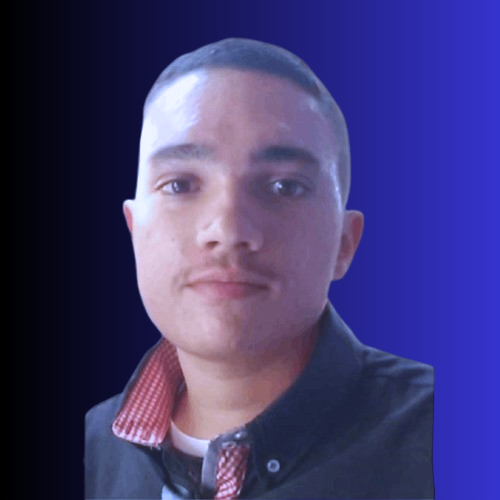
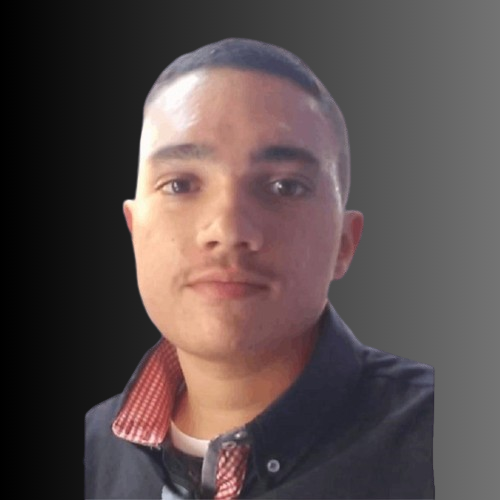
Modifications images, photo and texts

diff --git a/index.html b/index.html
@@ -58,8 +58,10 @@
     </div>
 
     <footer>
-      Feito com ♥ pela <a href="https://rocketseat.com.br" target="_blank"> Rocketseat</a>
+      Feito com ♥ no curso Discover da <a href="https://rocketseat.com.br" target="_blank"> Rocketseat</a>
     </footer>
+
+    <footer>Imagem de fundo : Canva</footer>
 
     <script type="module" src="https://unpkg.com/ionicons@7.1.0/dist/ionicons/ionicons.esm.js"></script>
     <script nomodule src="https://unpkg.com/ionicons@7.1.0/dist/ionicons/ionicons.js"></script>
